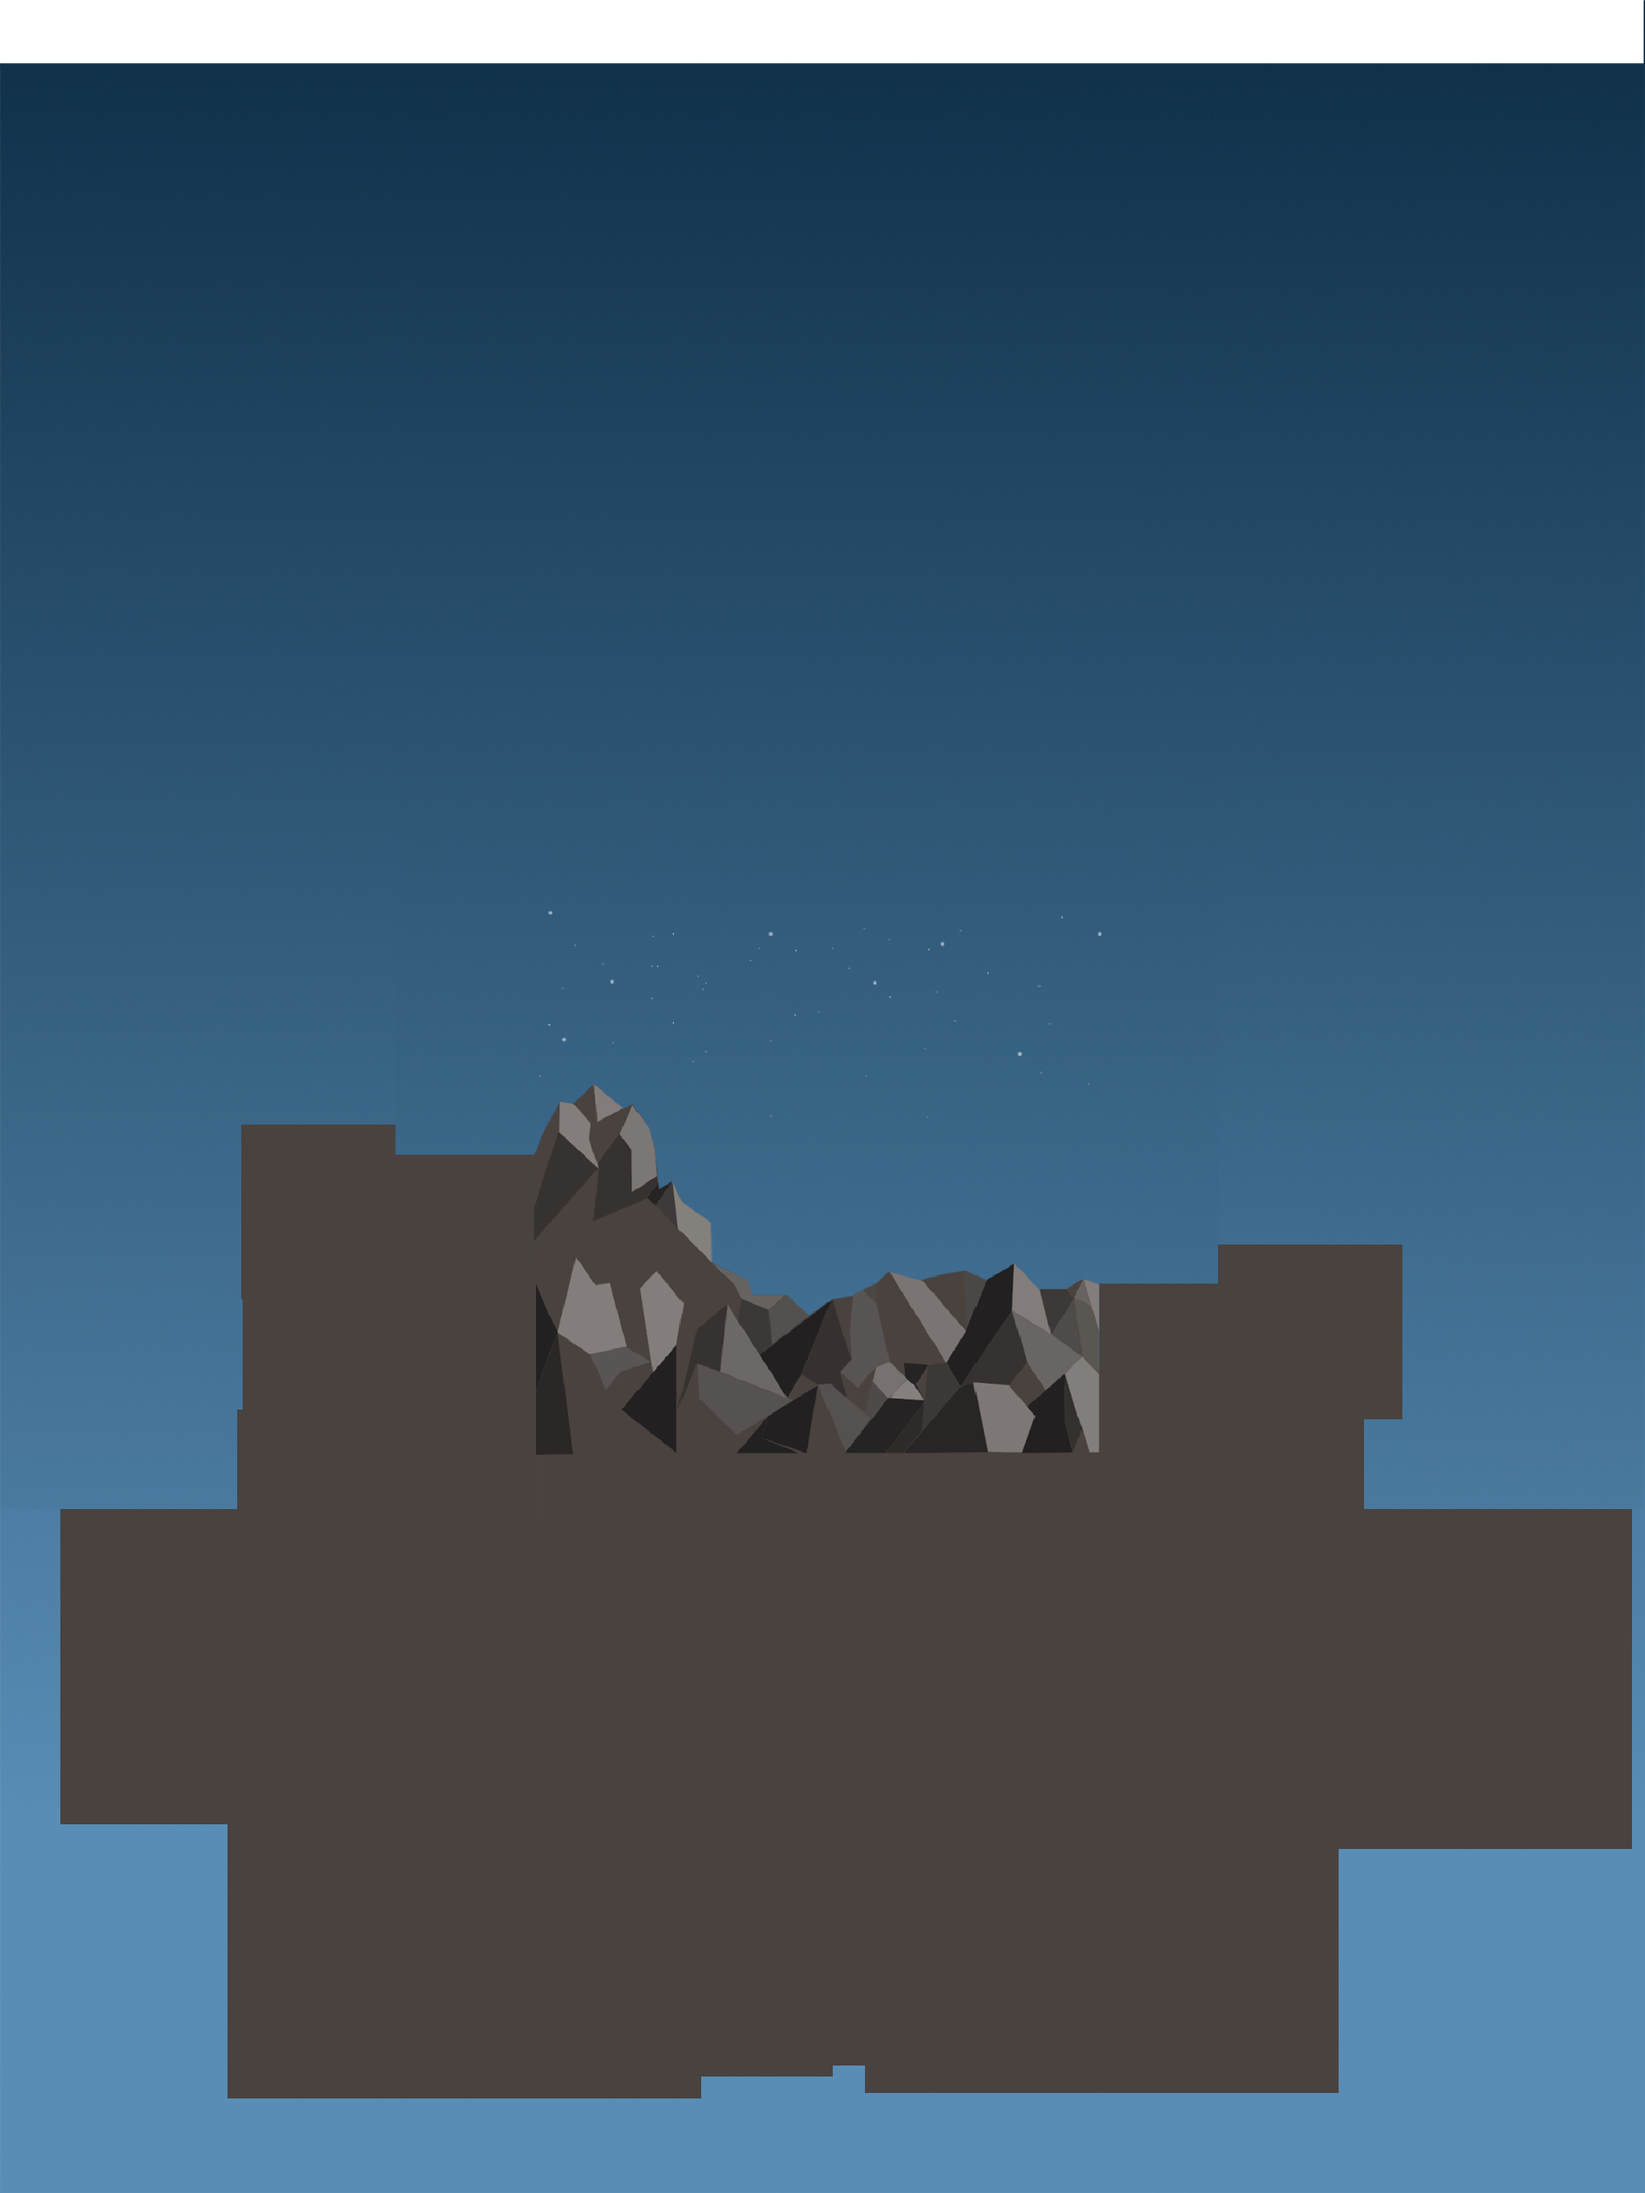
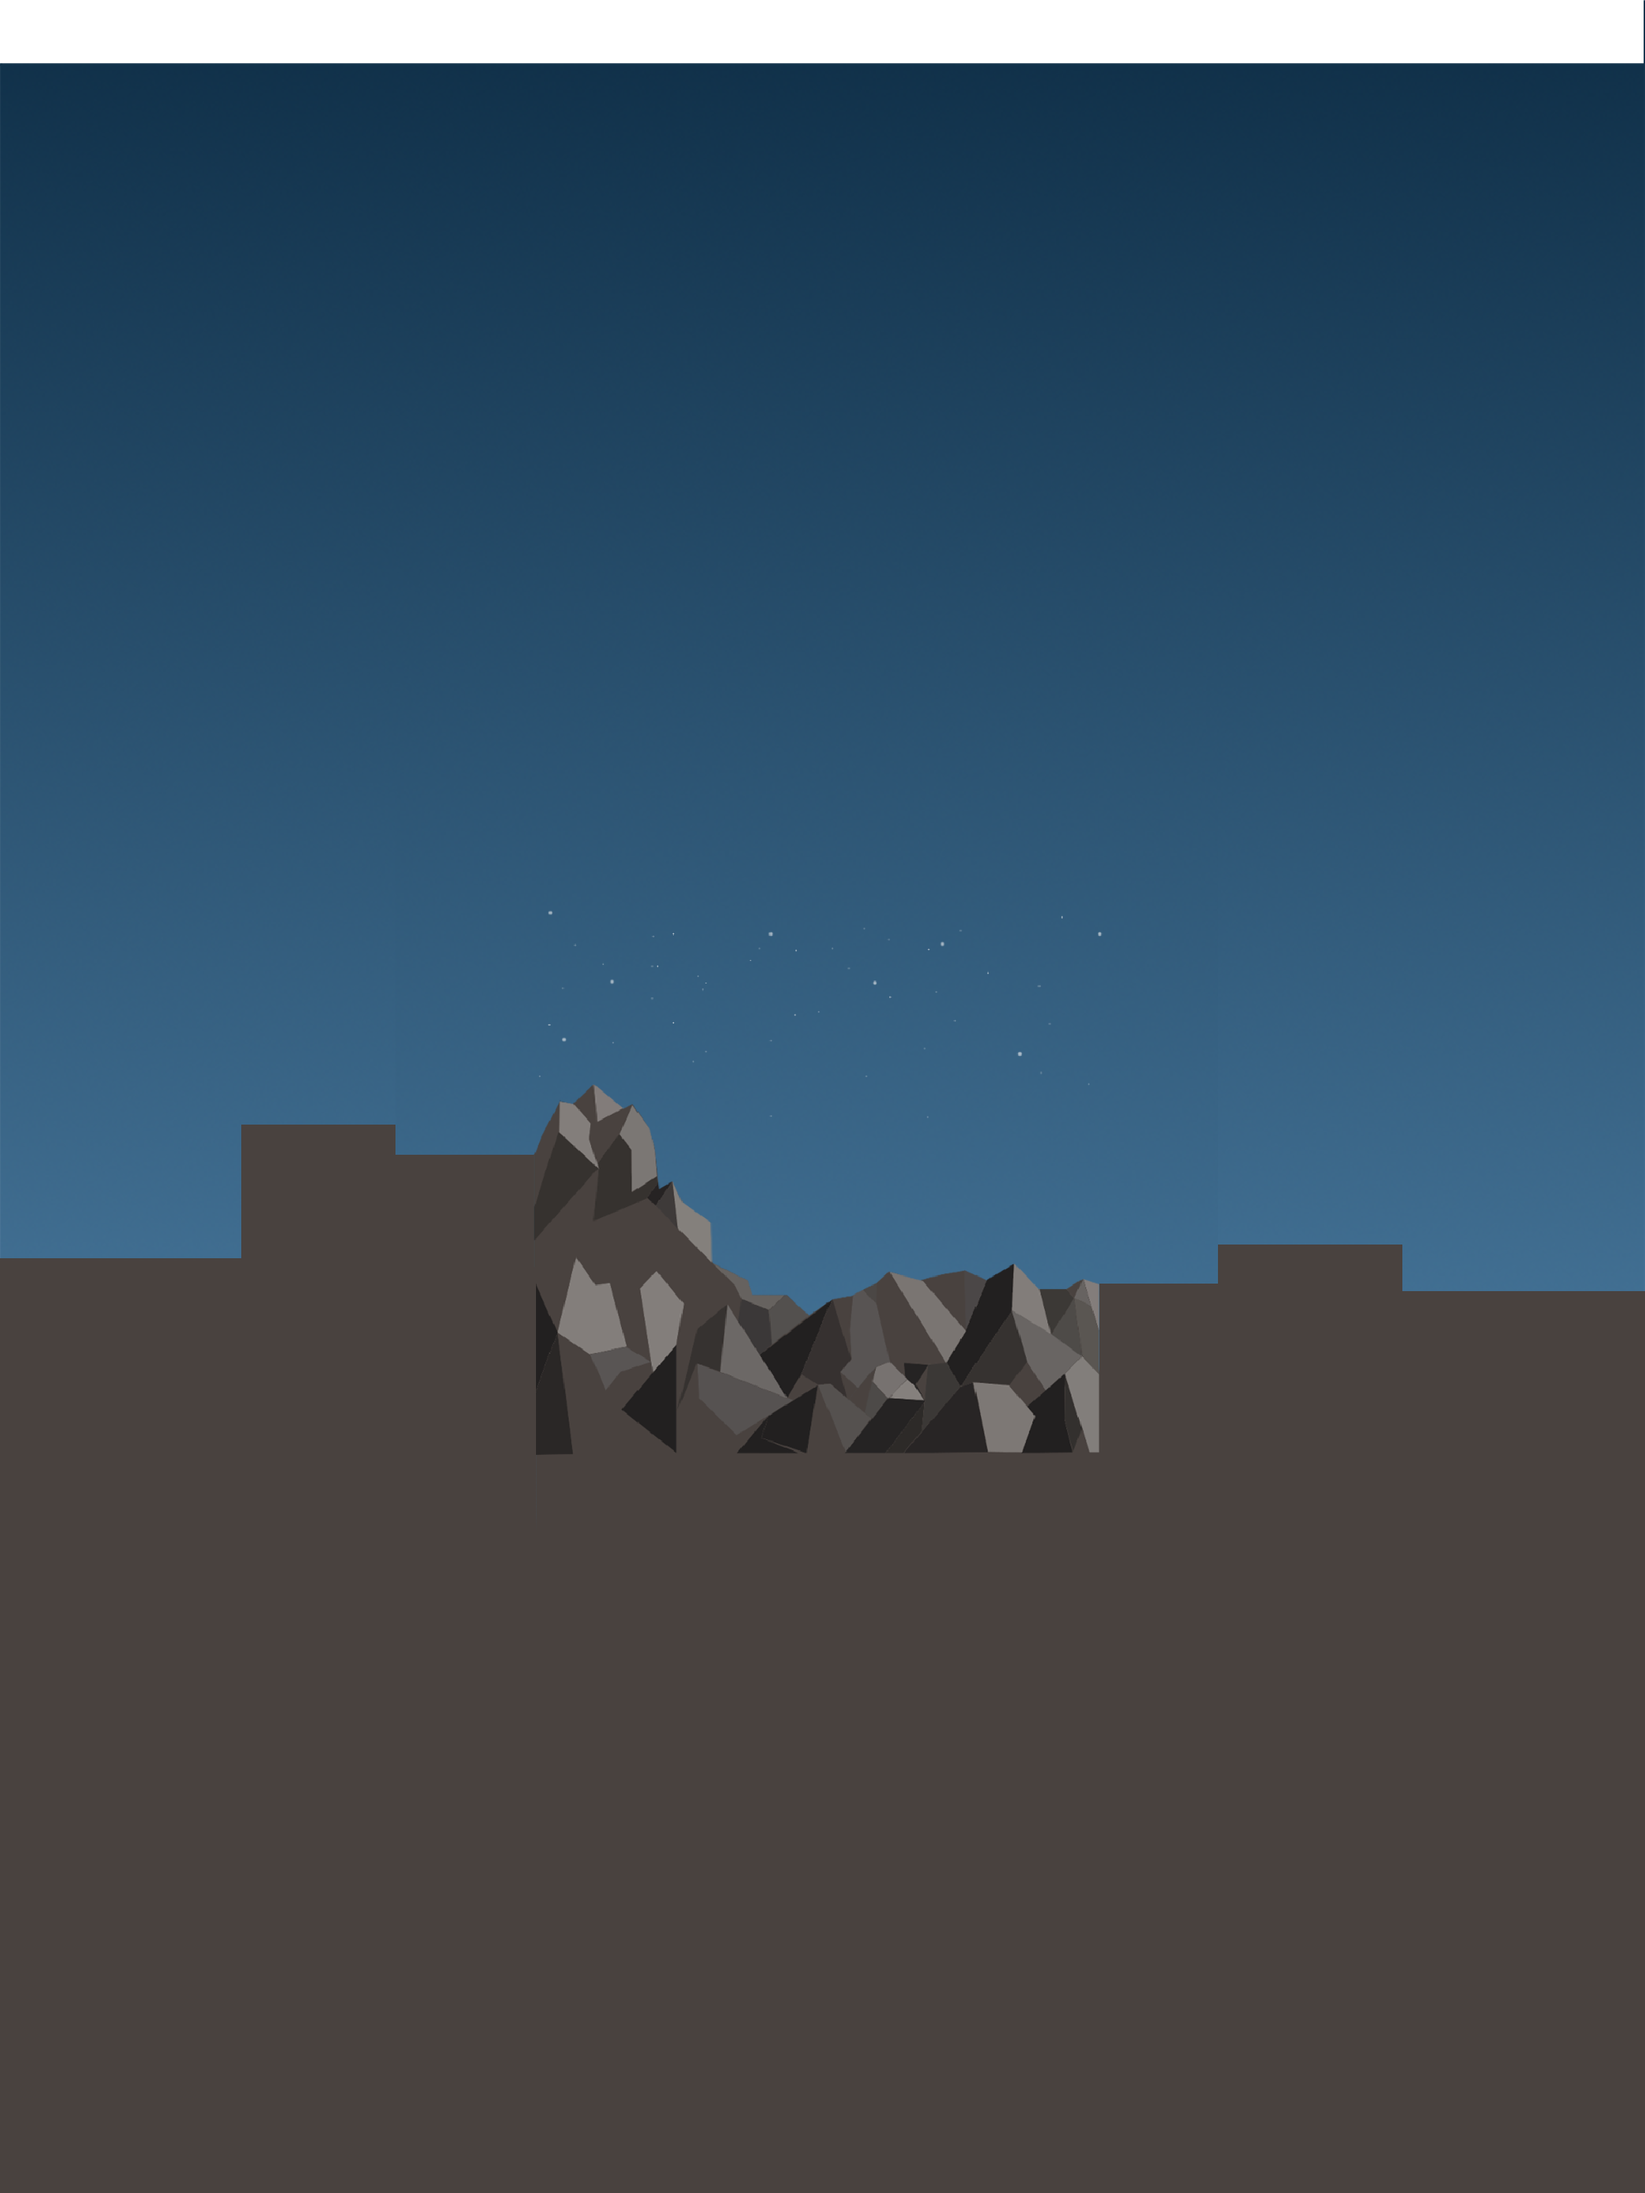
fixed a background and ground bug

Changed region(s): [[0.0, 0.5625, 1.0, 1.0]]

diff --git a/Assets/Scripts/BackgroundSpawnerController.cs b/Assets/Scripts/BackgroundSpawnerController.cs
@@ -275,6 +275,8 @@ public class BackgroundSpawnerController : MonoBehaviour {
 
         Objsize = BackgroundObj.GetComponent<Renderer>().bounds.size;
 
+        GeneratedGround.transform.position = new Vector3(transform.position.x, transform.position.y - y_offset, transform.position.z);
+
         Vector3 SpawnerPosit = transform.position;
 
         SpawnBlocks(SpawnerPosit, "BckListA", PillarsA);
